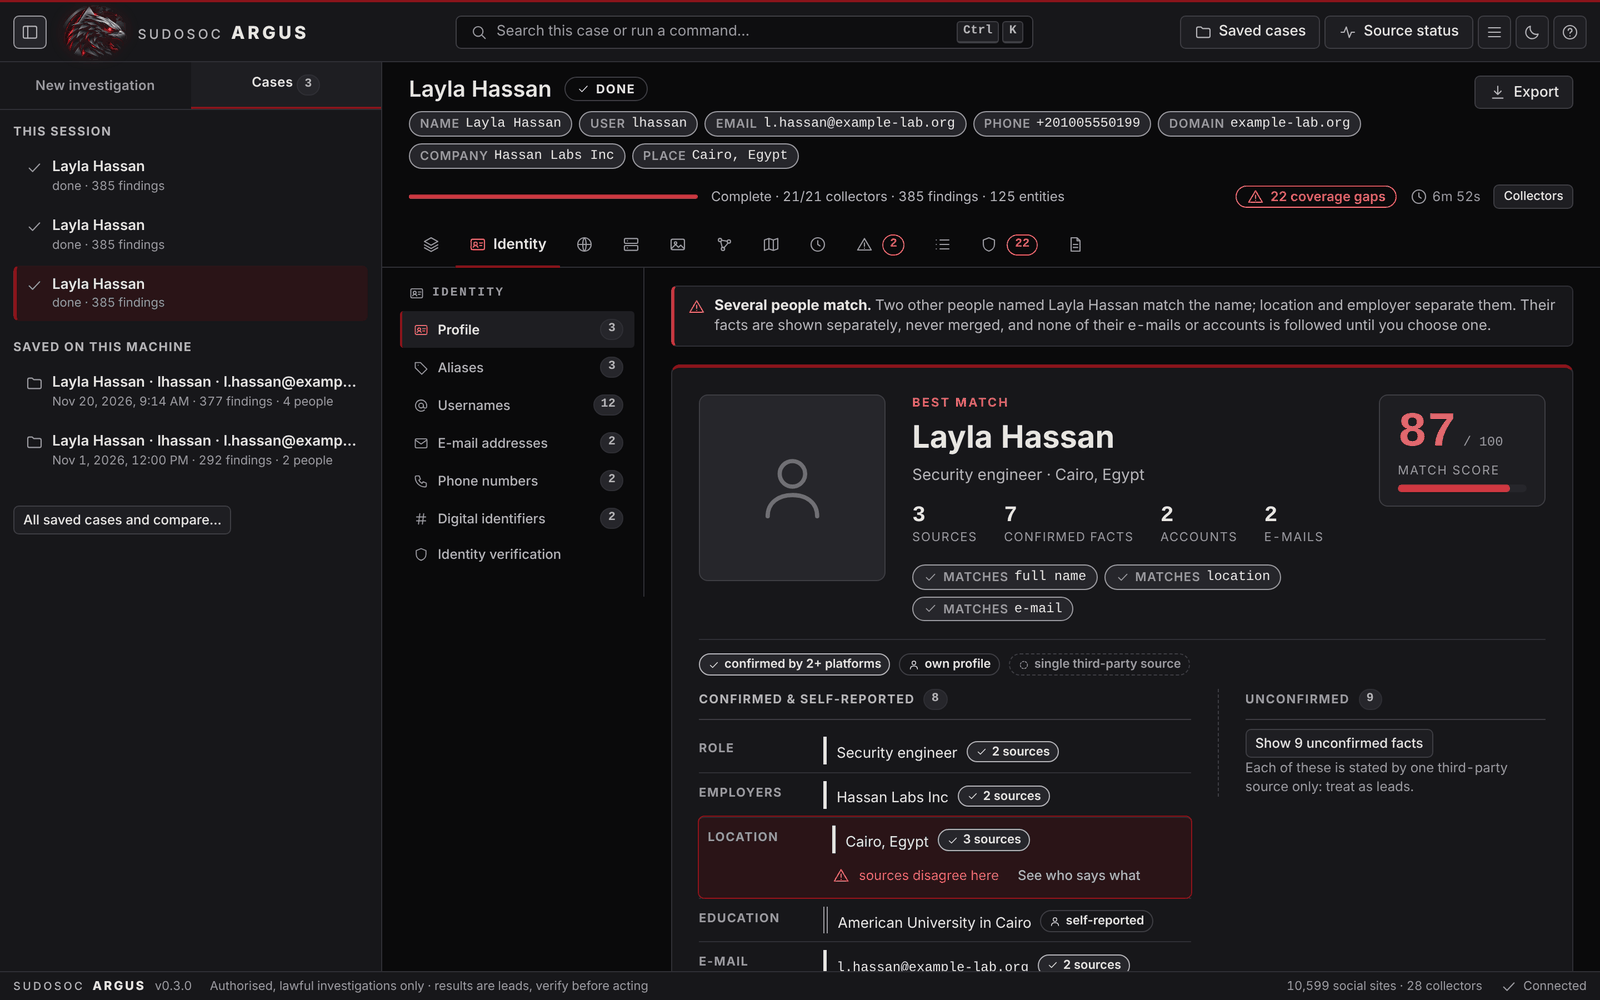
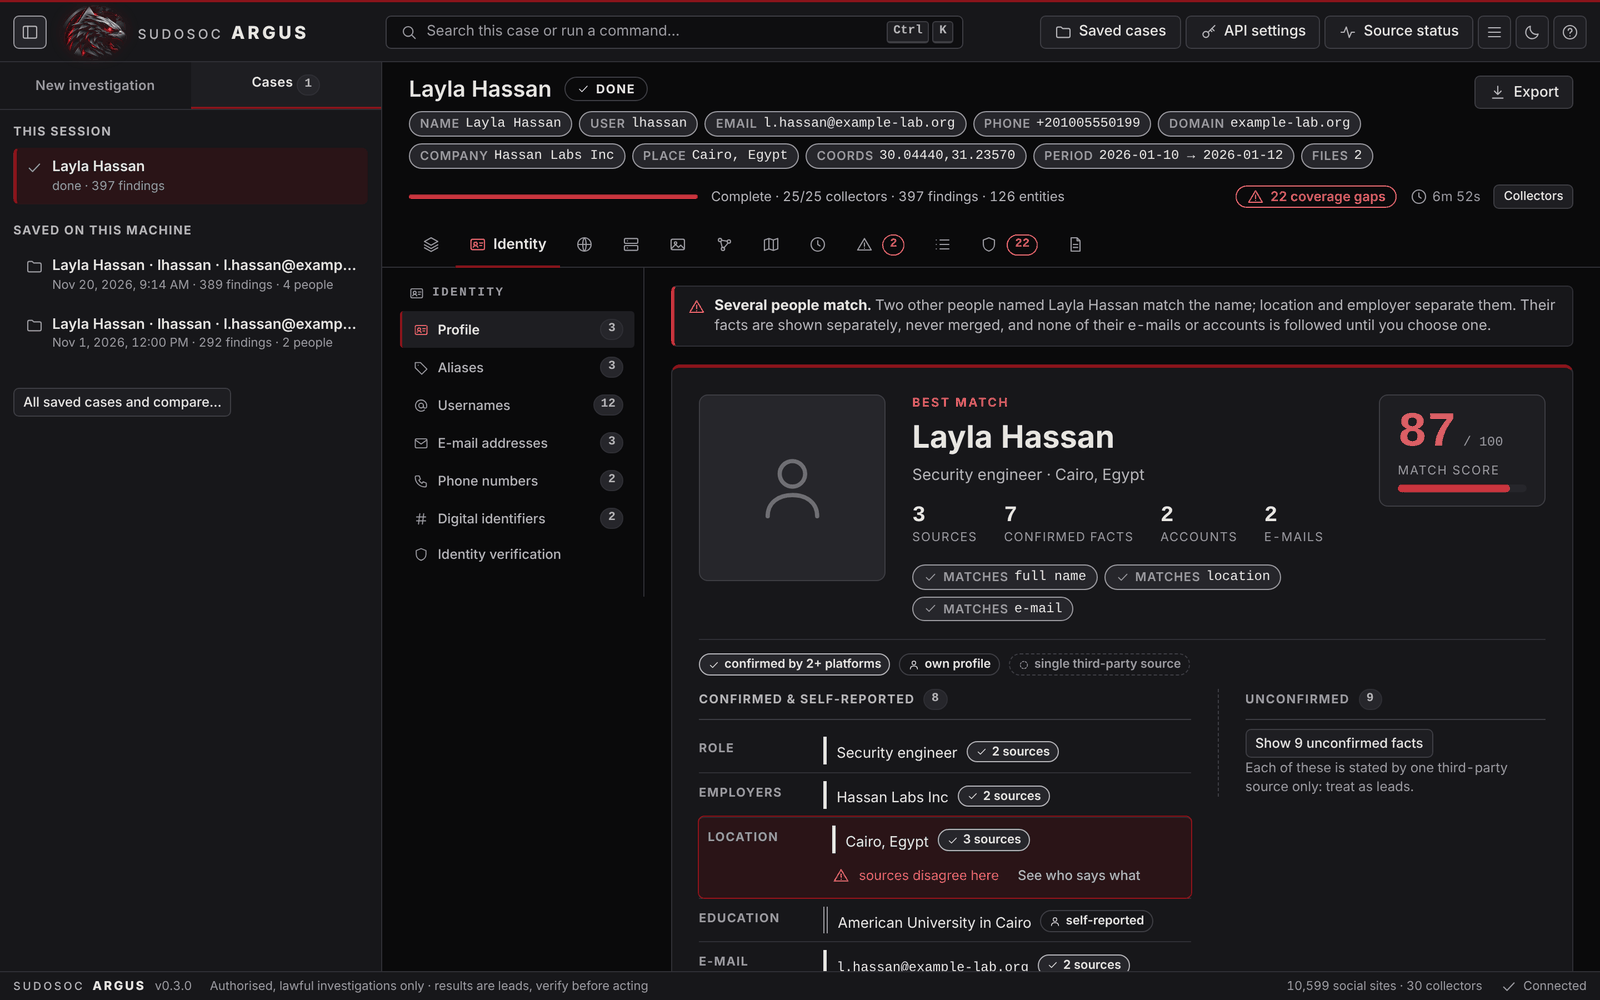
Refresh screenshots (32 views incl. uploads, place, period, collectors) and README gallery and module table

diff --git a/README.md b/README.md
@@ -6,7 +6,7 @@
 
 API-less OSINT reconnaissance in Go. Give it any combination of full name, username, email, phone, domain, IP address, company, ASN, crypto wallet and location; it decides which modules apply, runs them concurrently on a shared worker pool, follows the strongest new leads it discovers, resolves everything it finds into separate people (never blending two people who share a name), and exports reports in 13 formats.
 
-At a glance: **10,600+ username sites** (WhatsMyName + Sherlock + Maigret, in three depth tiers) · **28 modules** · **identity resolution with reliability scores** · **location and time-zone analysis** · **sanctions screening, OpenPGP key lookup, look-alike domains, tracking-ID history, platform-ID timestamps, Bluesky social circle, public code search** · **saved cases with comparison** · **SQL / Markdown / STIX / MISP / Maltego / GraphML exports**.
+At a glance: **10,600+ username sites** (WhatsMyName + Sherlock + Maigret, in three depth tiers) · **30 modules** · **identity resolution with reliability scores** · **location and time-zone analysis** · **sanctions screening, OpenPGP key lookup, look-alike domains, tracking-ID history, platform-ID timestamps, Bluesky social circle, public code search** · **file, place and period inputs (pictures with OCR, documents, videos, coordinates, dates)** · **API settings with encrypted keys** · **saved cases with comparison** · **SQL / Markdown / STIX / MISP / Maltego / GraphML exports**.
 
 > Use only on subjects you are lawfully permitted to investigate. Results are leads, not proof of identity.
 
@@ -17,19 +17,21 @@ All screenshots show a **synthetic demonstration case** (an invented person and 
 | | |
 |---|---|
 | ![First start](docs/screenshots/01-first-use-notice.png)<br>**1. First start:** the emblem and a short notice about lawful use. | ![Start page](docs/screenshots/02-start-page.png)<br>**2. Start page:** one clue is enough; every field has an ⓘ hint in English and Arabic. |
-| ![Live scan](docs/screenshots/03-live-scan.png)<br>**3. Live scan:** every collector with progress, hits, errors and time. | ![Overview](docs/screenshots/04-overview.png)<br>**4. Overview:** key facts about the subject, risk signals ranked by severity, coverage gaps. |
-| ![Identity](docs/screenshots/05-identity.png)<br>**5. Identity:** who the findings add up to, scored; other candidates kept apart. Sections: Profile, Aliases, Usernames, E-mails, Phones, Digital identifiers, Verification. | ![Digital footprint](docs/screenshots/06-footprint.png)<br>**6. Digital footprint:** accounts by platform, web presence, historical footprints, username reuse, public mentions, cached pages, activity and cross-platform matches. |
-| ![Infrastructure](docs/screenshots/07-infrastructure.png)<br>**7. Infrastructure:** WHOIS/RDAP, DNS, subdomains, IP intelligence, ASN, TLS, technology fingerprints, historical records, look-alike domains. | ![Media](docs/screenshots/08-media.png)<br>**8. Media:** downloaded pictures fingerprinted and compared, EXIF, similar images, reverse-search links, media timeline. |
-| ![Relationship graph](docs/screenshots/09-graph.png)<br>**9. Relationship graph:** entities and how each lead was found; responsive canvas with auto-fit, zoom, pan, pinch, a minimap and full screen; also shared identifiers, account relationships, infrastructure links, connection paths and clusters. | ![Graph layouts](docs/screenshots/25-graph-layouts.png)<br>**10. Graph layouts:** the same graph as rings by hops, a tree, a circle or groups by type; pinned nodes stay where you put them. |
-| ![Graph full screen](docs/screenshots/26-graph-fullscreen.png)<br>**11. Graph full screen:** full-screen mode with the minimap for large investigations; “Fit all” and “Core” keep it readable. | ![Intelligence tree](docs/screenshots/10-intelligence-tree.png)<br>**12. Intelligence tree:** the same case as a tree of leads. |
-| ![Location](docs/screenshots/11-location.png)<br>**13. Location:** evidence clustered on a map, conflicts called out, EXIF and geographic correlation. | ![Timeline](docs/screenshots/12-timeline.png)<br>**14. Timeline:** every dated fact on one axis, plus account activity, domain history and changes. |
-| ![Exposure & risk](docs/screenshots/13-exposure-risk.png)<br>**15. Exposure & risk:** breach intelligence (metadata only), public leaks and a risk assessment with what to do about each signal. | ![Findings](docs/screenshots/14-findings.png)<br>**16. Findings:** sortable, filterable, paginated, exportable; every row opens its full evidence. |
-| ![Conflicts](docs/screenshots/15-conflicts.png)<br>**17. Conflicts:** where sources disagree, never silently merged. | ![Evidence hashes](docs/screenshots/16-evidence-hashes.png)<br>**18. Evidence hashes:** SHA-256 of every finding, computed in the browser, plus the report's integrity digest. |
-| ![Source coverage](docs/screenshots/17-evidence-coverage.png)<br>**19. Source coverage:** all 28 collectors: ran, skipped, checks, hits and errors. | ![Missing data](docs/screenshots/18-missing-data.png)<br>**20. Missing data:** what was not found and exactly what input would fill it. |
-| ![Confidence score](docs/screenshots/19-confidence-score.png)<br>**21. Confidence score:** a transparent blend of completeness, evidence quality, corroboration and identity match. | ![Reports](docs/screenshots/20-report.png)<br>**22. Reports:** investigation summary, technical, intelligence and evidence reports: copy, download .md or print. |
-| ![Exports](docs/screenshots/21-exports.png)<br>**23. Exports:** HTML, JSON, CSV, Markdown, SQL, JSONL, GraphML; a local export history. | ![Command palette](docs/screenshots/22-command-palette.png)<br>**24. Command palette:** `Ctrl+K`: search the case or run any command. |
-| ![Light theme](docs/screenshots/23-light-theme.png)<br>**25. Light theme:** `t` switches; the emblem keeps its round shape. | ![Phone](docs/screenshots/24-phone.png)<br>**26. Phone:** the same views on a narrow screen: tabs and sections scroll sideways. |
-| ![File inputs](docs/screenshots/27-file-inputs.png)<br>**27. File, place and period inputs:** drop pictures, documents or videos; what is found inside is offered as leads. | ![API settings](docs/screenshots/28-api-settings.png)<br>**28. API settings:** masked keys, Enabled switch and Test connection per provider; model selector. |
+| ![File, place and period inputs](docs/screenshots/27-file-inputs.png)<br>**3. File, place and period inputs:** drop pictures, documents or videos; what is found inside is offered as leads. Coordinates and a date range sit beside them. | ![Live scan](docs/screenshots/03-live-scan.png)<br>**4. Live scan:** every collector with progress, hits, errors and time. |
+| ![Overview](docs/screenshots/04-overview.png)<br>**5. Overview:** key facts about the subject, risk signals ranked by severity, coverage gaps. | ![Identity](docs/screenshots/05-identity.png)<br>**6. Identity:** who the findings add up to, scored; other candidates kept apart. Sections: Profile, Aliases, Usernames, E-mails, Phones, Digital identifiers, Verification. |
+| ![Digital footprint](docs/screenshots/06-footprint.png)<br>**7. Digital footprint:** accounts by platform, web presence, historical footprints, username reuse, public mentions, cached pages, activity and cross-platform matches. | ![Social collectors](docs/screenshots/32-social-collectors.png)<br>**8. Social collectors:** output of facebook-scraper, instagram-osint, Insta OSINT Engine, open-nami, The 3rd Eye and SpiderFoot, when installed. |
+| ![Infrastructure](docs/screenshots/07-infrastructure.png)<br>**9. Infrastructure:** WHOIS/RDAP, DNS, subdomains, IP intelligence, ASN, TLS, technology fingerprints, historical records, look-alike domains. | ![Media](docs/screenshots/08-media.png)<br>**10. Media:** downloaded pictures fingerprinted and compared, EXIF, similar images, reverse-search links, media timeline. |
+| ![Uploaded files](docs/screenshots/29-uploaded-files.png)<br>**11. Uploaded files:** pictures, documents and videos you supplied, analysed locally: metadata, text, OCR, frames and the leads inside. | ![Relationship graph](docs/screenshots/09-graph.png)<br>**12. Relationship graph:** entities and how each lead was found; responsive canvas with auto-fit, zoom, pan, pinch, a minimap and full screen; also shared identifiers, account relationships, infrastructure links, connection paths and clusters. |
+| ![Graph layouts](docs/screenshots/25-graph-layouts.png)<br>**13. Graph layouts:** the same graph as rings by hops, a tree, a circle or groups by type; pinned nodes stay where you put them. | ![Graph full screen](docs/screenshots/26-graph-fullscreen.png)<br>**14. Graph full screen:** full-screen mode with the minimap for large investigations; “Fit all” and “Core” keep it readable. |
+| ![Intelligence tree](docs/screenshots/10-intelligence-tree.png)<br>**15. Intelligence tree:** the same case as a tree of leads. | ![Location](docs/screenshots/11-location.png)<br>**16. Location:** evidence clustered on a map, conflicts called out, EXIF and geographic correlation. |
+| ![Place you gave](docs/screenshots/30-place-nearby.png)<br>**17. Place you gave:** the coordinates you entered: place name, geotagged pictures and landmarks nearby, map and photo-search links. | ![Timeline](docs/screenshots/12-timeline.png)<br>**18. Timeline:** every dated fact on one axis, plus account activity, domain history and changes. |
+| ![Period you gave](docs/screenshots/31-period.png)<br>**19. Period you gave:** news in the window, the closest archive copy of the domain, what happened that day, and period-limited searches. | ![Exposure & risk](docs/screenshots/13-exposure-risk.png)<br>**20. Exposure & risk:** breach intelligence (metadata only), public leaks and a risk assessment with what to do about each signal. |
+| ![Findings](docs/screenshots/14-findings.png)<br>**21. Findings:** sortable, filterable, paginated, exportable; every row opens its full evidence. | ![Conflicts](docs/screenshots/15-conflicts.png)<br>**22. Conflicts:** where sources disagree, never silently merged. |
+| ![Evidence hashes](docs/screenshots/16-evidence-hashes.png)<br>**23. Evidence hashes:** SHA-256 of every finding, computed in the browser, plus the report's integrity digest. | ![Source coverage](docs/screenshots/17-evidence-coverage.png)<br>**24. Source coverage:** every collector: ran, skipped, checks, hits and errors. |
+| ![Missing data](docs/screenshots/18-missing-data.png)<br>**25. Missing data:** what was not found and exactly what input would fill it. | ![Confidence score](docs/screenshots/19-confidence-score.png)<br>**26. Confidence score:** a transparent blend of completeness, evidence quality, corroboration and identity match. |
+| ![Reports](docs/screenshots/20-report.png)<br>**27. Reports:** investigation summary, technical, intelligence and evidence reports: copy, download .md or print. | ![Exports](docs/screenshots/21-exports.png)<br>**28. Exports:** HTML, JSON, CSV, Markdown, SQL, JSONL, GraphML; a local export history. |
+| ![API settings](docs/screenshots/28-api-settings.png)<br>**29. API settings:** masked keys, Enabled switch and Test connection per provider; model selector. | ![Command palette](docs/screenshots/22-command-palette.png)<br>**30. Command palette:** `Ctrl+K`: search the case or run any command. |
+| ![Light theme](docs/screenshots/23-light-theme.png)<br>**31. Light theme:** `t` switches; the emblem keeps its round shape. | ![Phone](docs/screenshots/24-phone.png)<br>**32. Phone:** the same views on a narrow screen: tabs and sections scroll sideways. |
 
 ## API settings
 
@@ -230,6 +232,8 @@ A pasted **profile link** in the domain field (`-d https://x.com/handle`) is rec
 | `sanctions` | full name, company | Name screening against the OFAC SDN and UN Security Council consolidated lists (no account). A match is a lead: compare date of birth, nationality and programme. |
 | `bskygraph` | username | Bluesky social circle from public follow lists: mutual follows and accounts that many of the subject's follows follow but the subject does not. |
 | `codesearch` | e-mail | Public source code that contains the exact address (package metadata, configs, docs, scripts) through grep.app's public endpoint; repository owners become weak leads. |
+| `uploads` | uploaded files | Pictures, documents and videos you supply (see *Files, a place and a period as inputs*): metadata, OCR and text, video frames, and the leads inside become findings. Needs no network. |
+| `context` | coordinates, dates | A place and a period: place name and nearby geotagged pictures and landmarks (OpenStreetMap, Wikimedia Commons, Wikipedia), news in the period (GDELT), the closest Internet Archive copy of the domain, what happened that day, and ready-made map, photo and period-limited searches. |
 | `syswrap` | domain, username | Runs `whois`, `dig`, `theHarvester`, `subfinder`, `whatweb`, `sherlock`, `maigret`, `holehe`, `phoneinfoga` and your custom tools through `os/exec` (those installed). Maigret is read from its own JSON report (names, bios, pictures, linked usernames). |
 | `spiderfoot` | domain, e-mail, username, phone | Optional: runs the SpiderFoot CLI (`-u passive`) when installed and keeps every event it returns, grouped by type with the SpiderFoot modules that produced it. |
 | `h8mail` | e-mail | Optional: runs h8mail when installed. Only the breach/source names and the number of records are shown; credential values are never stored or displayed. |
